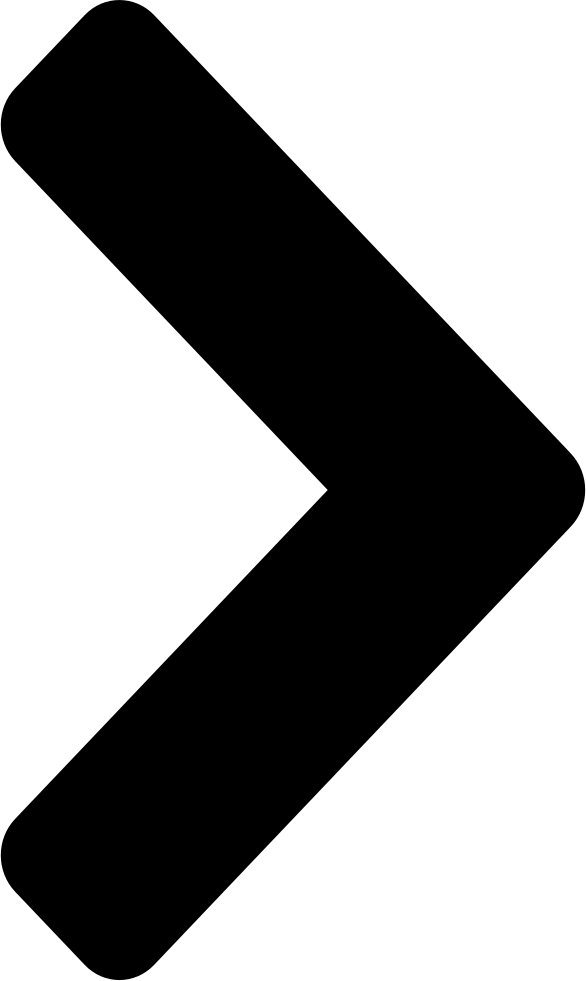
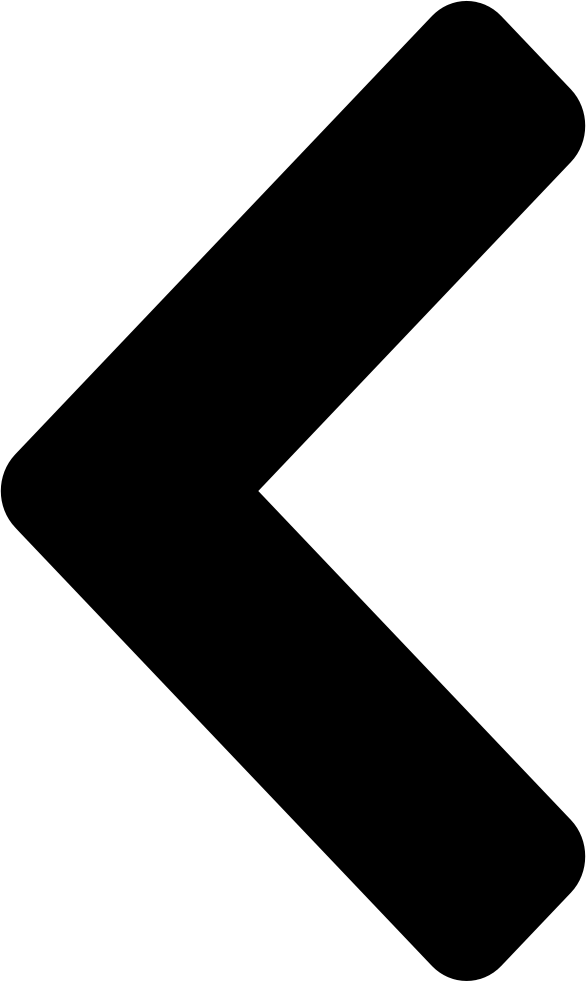
added TextButton and ImageButton subclasses

diff --git a/src/maze.py b/src/maze.py
@@ -66,15 +66,10 @@ pygame.display.set_caption("Maze - created by Zharia Eloby")
 clock = pygame.time.Clock()
 
 class Button(pygame.sprite.Sprite):
-    def __init__(self, width, height, button_color):
+    def __init__(self, width, height):
         pygame.sprite.Sprite.__init__(self)
-
         self.width = width
         self.height = height
-        self.button_color = button_color
-
-        self.button_text = None
-        self.button_text_rect = None
         self.button_rect = pygame.Rect(0, 0, self.width, self.height)
 
     def setCenterPosition(self, x, y):
@@ -83,6 +78,20 @@ class Button(pygame.sprite.Sprite):
     def setTopLeftPosition(self, x, y):
         self.button_rect.topleft = (x, y)
 
+    def draw_button(self):
+        pass
+
+    def is_clicked(self, mouse_position):
+        return self.button_rect.collidepoint(mouse_position)
+
+class TextButton(Button):
+    def __init__(self, width, height, button_color):
+        super().__init__(width, height)
+        self.button_color = button_color
+        self.button_text = None
+        self.button_text_rect = None
+        self.button_rect = pygame.Rect(0, 0, self.width, self.height)
+
     def setText(self, text, font_size, text_color):
         font = pygame.font.Font(font_file, font_size)
         self.button_text = font.render(text, True, text_color)
@@ -90,11 +99,18 @@ class Button(pygame.sprite.Sprite):
 
     def draw_button(self):
         pygame.draw.rect(screen, self.button_color, self.button_rect, 0, 12)
-        if (self.button_text and self.button_text_rect):
-            screen.blit(self.button_text, self.button_text_rect)
+        screen.blit(self.button_text, self.button_text_rect)
 
-    def is_clicked(self, mouse_position):
-        return self.button_rect.collidepoint(mouse_position)
+class ImageButton(Button):
+    def __init__(self, width, height, file_path):
+        super().__init__(width, height)
+        self.file_path = file_path
+        self.button = pygame.image.load(self.file_path).convert_alpha()
+        self.button = pygame.transform.scale(self.button, (self.width, self.height))
+        self.button_rect = self.button.get_rect()
+
+    def draw_button(self):
+        screen.blit(self.button, self.button_rect)
 
 class Player(pygame.sprite.Sprite):
     def __init__(self, x, y, color):
@@ -343,7 +359,7 @@ def home_screen():
     screen.blit(credit_text, credit_text_rect)
     
     #play button
-    play_button = Button(SCREEN_WIDTH/2, SCREEN_HEIGHT/8, button_color)
+    play_button = TextButton(SCREEN_WIDTH/2, SCREEN_HEIGHT/8, button_color)
     play_button.setCenterPosition(SCREEN_WIDTH/2, SCREEN_HEIGHT/2 + play_button.height/2)
     play_button.setText("play", 24, button_text_color)
     play_button.draw_button()
@@ -368,11 +384,9 @@ preset sizes are easy, medium, and hard, or they can customize the size
 def pick_size_screen():
     screen.fill(background_color)
     
-    back_button = pygame.image.load(image_file_path + "arrow.png").convert_alpha()
-    back_button = pygame.transform.scale(back_button, (20, 32))
-    back_button = pygame.transform.rotate(back_button, 180)
-    back_button_rect = back_button.get_rect(topleft=(25, 25))
-    screen.blit(back_button, back_button_rect)
+    back_button = ImageButton(20, 32, image_file_path + "arrow.png")
+    back_button.setTopLeftPosition(25, 25)
+    back_button.draw_button()
     
     num_buttons = 4
     space_between_buttons = SCREEN_HEIGHT/20
@@ -387,25 +401,25 @@ def pick_size_screen():
     font = pygame.font.Font(font_file, font_size)
     
     #easy button
-    easy_button = Button(SCREEN_WIDTH/2, button_height, button_color)
+    easy_button = TextButton(SCREEN_WIDTH/2, button_height, button_color)
     easy_button.setCenterPosition(SCREEN_WIDTH/2, space_between_buttons + button_height/2)
     easy_button.setText("easy", font_size, button_text_color)
     easy_button.draw_button()
     
     #medium button
-    medium_button = Button(SCREEN_WIDTH/2, button_height, button_color)
+    medium_button = TextButton(SCREEN_WIDTH/2, button_height, button_color)
     medium_button.setCenterPosition(SCREEN_WIDTH/2, space_between_buttons*2 + button_height + button_height/2)
     medium_button.setText("medium", font_size, button_text_color)
     medium_button.draw_button()
     
     #hard button
-    hard_button = Button(SCREEN_WIDTH/2, button_height, button_color)
+    hard_button = TextButton(SCREEN_WIDTH/2, button_height, button_color)
     hard_button.setCenterPosition(SCREEN_WIDTH/2, space_between_buttons*3+button_height*2 + button_height/2)
     hard_button.setText("hard", font_size, button_text_color)
     hard_button.draw_button()
     
     #custom button
-    custom_button = Button(SCREEN_WIDTH/2, button_height, button_color)
+    custom_button = TextButton(SCREEN_WIDTH/2, button_height, button_color)
     custom_button.setCenterPosition(SCREEN_WIDTH/2, space_between_buttons*4+button_height*3 + button_height/2)
     custom_button.setText("custom", font_size, button_text_color)
     custom_button.draw_button()
@@ -430,7 +444,7 @@ def pick_size_screen():
             if event.type == pygame.MOUSEBUTTONDOWN:
                     if pygame.mouse.get_pressed() == (1, 0, 0):
                         m_pos = pygame.mouse.get_pos()
-                        if (back_button_rect.collidepoint(m_pos)):
+                        if (back_button.is_clicked(m_pos)):
                             home_screen()
                         if (easy_button.is_clicked(m_pos)):
                             maze_rows = easy_dim[0]
@@ -464,11 +478,9 @@ def custom_size_screen():
     rows = 15
     cols = 15
     
-    back_button = pygame.image.load(image_file_path + "arrow.png").convert_alpha()
-    back_button = pygame.transform.scale(back_button, (20, 32))
-    back_button = pygame.transform.rotate(back_button, 180)
-    back_button_rect = back_button.get_rect(topleft=(25, 25))
-    screen.blit(back_button, back_button_rect)
+    back_button = ImageButton(20, 32, image_file_path + "arrow.png")
+    back_button.setTopLeftPosition(25, 25)
+    back_button.draw_button()
     
     #select dimensions text
     font_size = 36
@@ -498,7 +510,7 @@ def custom_size_screen():
     
     #play button
     font_size = 24
-    play_button = Button(SCREEN_WIDTH/2, font_size*2, button_color)
+    play_button = TextButton(SCREEN_WIDTH/2, font_size*2, button_color)
     play_button.setCenterPosition(SCREEN_WIDTH/2, SCREEN_HEIGHT/5*4)
     play_button.setText("play", font_size, button_text_color)
     play_button.draw_button()
@@ -509,27 +521,21 @@ def custom_size_screen():
     
     arrow_padding = 125
     
-    row_up_arrow_image = pygame.image.load(image_file_path + "arrow-2.png").convert_alpha()
-    row_up_arrow_image = pygame.transform.scale(row_up_arrow_image, (arrow_width, arrow_height))
-    row_up_arrow_rect = row_up_arrow_image.get_rect(center=(row_text_rect.centerx, row_text_rect.centery - arrow_padding))
-    screen.blit(row_up_arrow_image, row_up_arrow_rect)
+    row_up_arrow_button = ImageButton(arrow_width, arrow_height, image_file_path + "up-arrow.png")
+    row_up_arrow_button.setCenterPosition(row_text_rect.centerx, row_text_rect.centery - arrow_padding)
+    row_up_arrow_button.draw_button()
     
-    row_down_arrow_image = pygame.image.load(image_file_path + "arrow-2.png").convert_alpha()
-    row_down_arrow_image = pygame.transform.scale(row_down_arrow_image, (arrow_width, arrow_height))
-    row_down_arrow_image = pygame.transform.rotate(row_down_arrow_image, 180)
-    row_down_arrow_rect = row_down_arrow_image.get_rect(center=(row_text_rect.centerx, row_text_rect.centery + arrow_padding))
-    screen.blit(row_down_arrow_image, row_down_arrow_rect)
+    row_down_arrow_button = ImageButton(arrow_width, arrow_height, image_file_path + "down-arrow.png")
+    row_down_arrow_button.setCenterPosition(row_text_rect.centerx, row_text_rect.centery + arrow_padding)
+    row_down_arrow_button.draw_button()
     
-    col_up_arrow_image = pygame.image.load(image_file_path + "arrow-2.png").convert_alpha()
-    col_up_arrow_image = pygame.transform.scale(col_up_arrow_image, (arrow_width, arrow_height))
-    col_up_arrow_rect = col_up_arrow_image.get_rect(center=(col_text_rect.centerx, col_text_rect.centery - arrow_padding))
-    screen.blit(col_up_arrow_image, col_up_arrow_rect)
+    col_up_arrow_button = ImageButton(arrow_width, arrow_height, image_file_path + "up-arrow.png")
+    col_up_arrow_button.setCenterPosition(col_text_rect.centerx, col_text_rect.centery - arrow_padding)
+    col_up_arrow_button.draw_button()
     
-    col_down_arrow_image = pygame.image.load(image_file_path + "arrow-2.png").convert_alpha()
-    col_down_arrow_image = pygame.transform.scale(col_down_arrow_image, (arrow_width, arrow_height))
-    col_down_arrow_image = pygame.transform.rotate(col_down_arrow_image, 180)
-    col_down_arrow_rect = col_down_arrow_image.get_rect(center=(col_text_rect.centerx, col_text_rect.centery + arrow_padding))
-    screen.blit(col_down_arrow_image, col_down_arrow_rect)
+    col_down_arrow_button = ImageButton(arrow_width, arrow_height, image_file_path + "down-arrow.png")
+    col_down_arrow_button.setCenterPosition(col_text_rect.centerx, col_text_rect.centery + arrow_padding)
+    col_down_arrow_button.draw_button()
     
     #ratio lock
     lock_image = pygame.image.load(image_file_path + "ratio-lock.png").convert_alpha()
@@ -586,7 +592,7 @@ def custom_size_screen():
             if event.type == pygame.MOUSEBUTTONDOWN:
                 if pygame.mouse.get_pressed() == (1, 0, 0):
                     m_pos = pygame.mouse.get_pos()
-                    if (back_button_rect.collidepoint(m_pos)):
+                    if (back_button.is_clicked(m_pos)):
                         pick_size_screen()
                     if (lock_background_rect.collidepoint(m_pos)):
                         if locked:
@@ -611,28 +617,28 @@ def custom_size_screen():
                         play()
                         ready = True
                         break
-                    if (row_up_arrow_rect.collidepoint(m_pos) and rows < row_max):
+                    if (row_up_arrow_button.is_clicked(m_pos) and rows < row_max):
                         rows += 1
                         if locked: 
                             cols += 1
                         elif (rows - cols > 10):
                             cols += 1
                             display_bounds_message = True
-                    if (row_down_arrow_rect.collidepoint(m_pos) and rows > row_min):
+                    if (row_down_arrow_button.is_clicked(m_pos) and rows > row_min):
                         rows -= 1
                         if locked:
                             cols -= 1
                         elif (cols - rows > 10):
                             cols -= 1
                             display_bounds_message = True
-                    if (col_up_arrow_rect.collidepoint(m_pos) and cols < col_max):
+                    if (col_up_arrow_button.is_clicked(m_pos) and cols < col_max):
                         cols += 1
                         if locked:
                             rows += 1
                         elif (cols - rows > 10):
                             rows += 1
                             display_bounds_message = True
-                    if (col_down_arrow_rect.collidepoint(m_pos) and cols > col_min):
+                    if (col_down_arrow_button.is_clicked(m_pos) and cols > col_min):
                         cols -= 1
                         if locked:
                             rows -= 1
@@ -691,10 +697,9 @@ def pause_menu():
     screen.blit(paused_text, paused_text_rect)
     
     #close button
-    close_button_image = pygame.image.load(image_file_path + "close-button.png").convert_alpha()
-    close_button_image = pygame.transform.scale(close_button_image, (25, 25))
-    close_button_rect = close_button_image.get_rect(midright=(paused_bar_rect.right-line_spacing, paused_bar_rect.centery))
-    screen.blit(close_button_image, close_button_rect)
+    close_button = ImageButton(25, 25, image_file_path + "close-button.png")
+    close_button.setCenterPosition(paused_bar_rect.right-line_spacing-(close_button.height/2), paused_bar_rect.centery)
+    close_button.draw_button()
     
     #arrow keys for nav info
     arrow_keys_image = pygame.image.load(image_file_path + "arrow-keys.png").convert_alpha()
@@ -742,7 +747,7 @@ def pause_menu():
     screen.blit(flag_image, flag_rect)
     
     #exit button
-    exit_button = Button(background_rect.width-margin*2, 50, pause_menu_button_color)
+    exit_button = TextButton(background_rect.width-margin*2, 50, pause_menu_button_color)
     exit_button.setCenterPosition(background_rect.centerx, background_rect.bottom-margin - exit_button.height/2)
     exit_button.setText("exit to home screen", 16, pause_menu_button_text_color)
     exit_button.draw_button()
@@ -765,7 +770,7 @@ def pause_menu():
                     if exit_button.is_clicked(m_pos):
                         home_screen()
                         paused = False
-                    if close_button_rect.collidepoint(m_pos):
+                    if close_button.is_clicked(m_pos):
                         background.set_alpha(0)
                         paused = False
                     
@@ -795,13 +800,13 @@ def finished_menu(message):
     font_size = 16
     
     #play again button
-    play_again_button = Button(button_width, button_height, finished_menu_button_color)
+    play_again_button = TextButton(button_width, button_height, finished_menu_button_color)
     play_again_button.setCenterPosition(background_rect.centerx, background_rect.bottom - button_height/2 - button_height - margin - line_spacing)
     play_again_button.setText("play again", font_size, finished_menu_button_text_color)
     play_again_button.draw_button()
     
     #exit to home screen button
-    exit_button = Button(button_width, button_height, finished_menu_button_color)
+    exit_button = TextButton(button_width, button_height, finished_menu_button_color)
     exit_button.setCenterPosition(background_rect.centerx, background_rect.bottom - margin - button_height/2)
     exit_button.setText("exit to home screen", font_size, finished_menu_button_text_color)
     exit_button.draw_button()
@@ -873,10 +878,9 @@ def play():
     all_sprites.add(player)
     
     #pause button
-    pause_button_image = pygame.image.load(image_file_path + "pause-button.png").convert_alpha()
-    pause_button_image = pygame.transform.scale(pause_button_image, (30, 30))
-    pause_button_rect = pause_button_image.get_rect(topright=(SCREEN_WIDTH - 10, 10))
-    screen.blit(pause_button_image, pause_button_rect)
+    pause_button = ImageButton(30, 30, image_file_path + "pause-button.png")
+    pause_button.setTopLeftPosition(SCREEN_WIDTH - 10 - pause_button.width, 10)
+    pause_button.draw_button()
     
     #'press Enter to skip animation'
     font_size = 24
@@ -902,7 +906,7 @@ def play():
             if event.type == pygame.MOUSEBUTTONDOWN:
                 if pygame.mouse.get_pressed() == (1, 0, 0):
                     m_pos = pygame.mouse.get_pos()
-                    if (pause_button_rect.collidepoint(m_pos)):
+                    if (pause_button.is_clicked(m_pos)):
                         pause_menu()
                         paused = True
                 if pygame.mouse.get_pressed() == (0, 0, 1):
@@ -968,7 +972,7 @@ def play():
         screen.fill(background_color)
         all_sprites.draw(screen)
         
-        screen.blit(pause_button_image, pause_button_rect)
+        pause_button.draw_button()
         if solving:
             screen.blit(skip_text, skip_text_rect)
         
